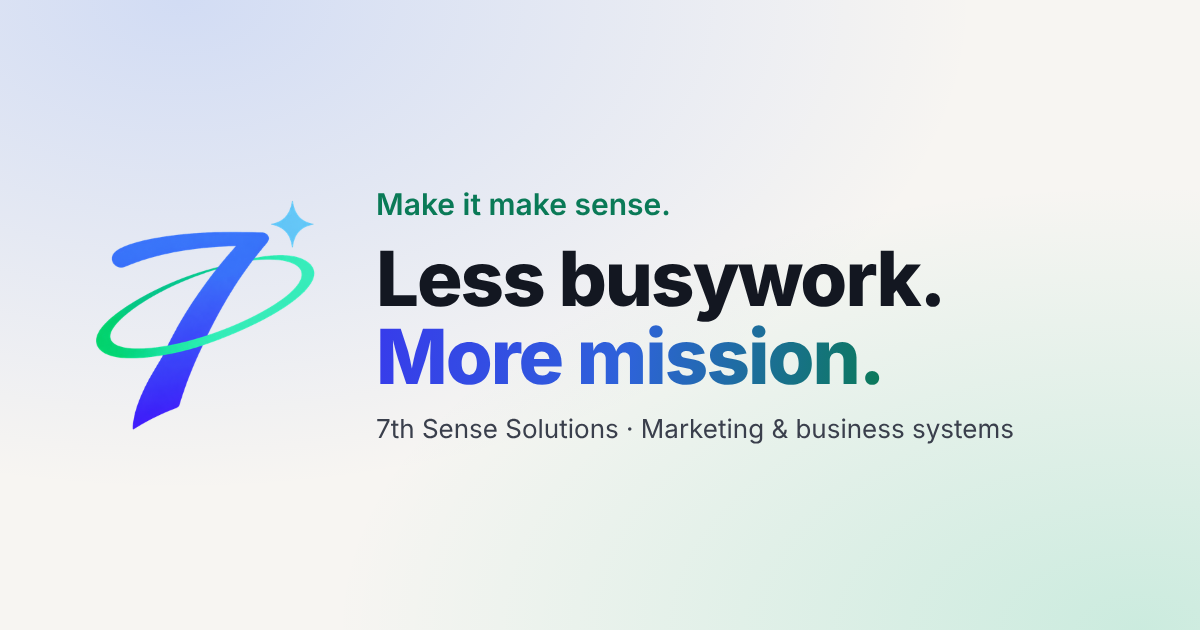
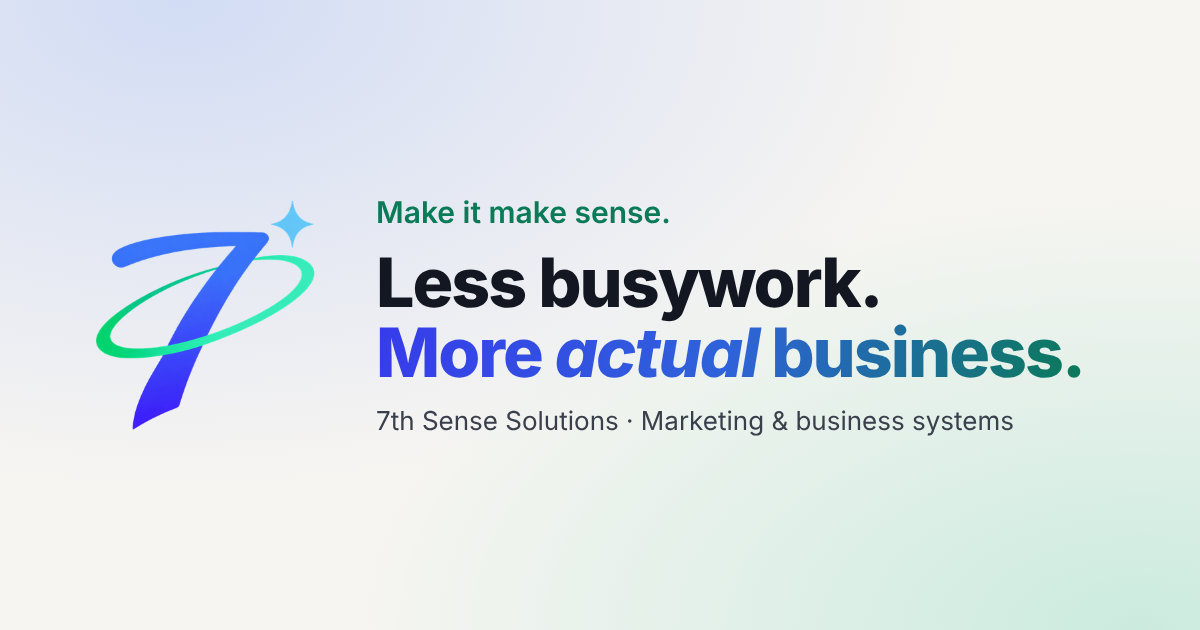
Hero headline: "Less busywork. More actual business."
Updates the hero, share title, and share image.

Claude-Session: https://claude.ai/code/session_0167hd1F6884AhMqRp1pcZDe

Changed region(s): [[0.3083, 0.3921, 0.925, 0.6937], [0.3083, 0.3016, 0.555, 0.3619]]

diff --git a/index.html b/index.html
@@ -13,7 +13,7 @@
 <link rel="canonical" href="https://7thsensesolutions.com/">
 <meta property="og:type" content="website">
 <meta property="og:site_name" content="7th Sense Solutions">
-<meta property="og:title" content="Less busywork. More mission. | 7th Sense Solutions">
+<meta property="og:title" content="Less busywork. More actual business. | 7th Sense Solutions">
 <meta property="og:description" content="Marketing and business systems for small businesses. I build the systems that capture every lead, follow up for you, and connect your tools, so you can get out of the weeds. Based in St. Louis.">
 <meta property="og:url" content="https://7thsensesolutions.com/">
 <meta property="og:image" content="https://7thsensesolutions.com/images/og-image.png">
@@ -150,7 +150,7 @@ html{scroll-behavior:smooth}
 <section style="color: #131721; background: radial-gradient(ellipse at 20% 0%, rgba(77,131,251,0.16), transparent 55%), radial-gradient(ellipse at 95% 90%, rgba(5,190,133,0.12 ), transparent 50%), #F7F5F2">
 <div style="max-width: 1200px; margin: 0 auto; padding: clamp(64px, 9vw, 120px) 24px clamp(56px, 7vw, 96px); display: flex; flex-direction: column; gap: 28px">
 <div style="font-family: 'Kaushan Script', cursive; font-size: 26px; color: #0A7A57">Make it make sense.</div>
-<h1 style="margin: 0; font-family: Sora, sans-serif; font-weight: 800; font-size: clamp(44px, 7.5vw, 92px); line-height: 1.0; letter-spacing: -0.035em; max-width: 900px">Less busywork.<br><span class="grad-l">More mission.</span></h1>
+<h1 style="margin: 0; font-family: Sora, sans-serif; font-weight: 800; font-size: clamp(44px, 7.5vw, 92px); line-height: 1.0; letter-spacing: -0.035em; max-width: 900px">Less busywork.<br><span class="grad-l">More <em style="font-style: italic; padding-right: 0.06em">actual</em> business.</span></h1>
 <p style="margin: 0; font-size: clamp(18px, 1.6vw, 21px); line-height: 1.6; color: #3A3F4C; max-width: 680px">Whether you sell services or products, I connect your marketing and business tools so they work together, then help you grow on top of them: campaigns, ads, and automation that bring customers in and keep them coming back. You keep the keys, so it all keeps running long after I'm gone.</p>
 <div style="display: flex; flex-wrap: wrap; gap: 14px; margin-top: 8px">
 <a href="https://calendar.google.com/calendar/appointments/schedules/AcZssZ2ihGTnjK_ADKunu6BIwyBelCXNJGZrNhhanmxzteIu9calpvYcj_o9ld1ZhANiABd0veh3dwn1" target="_blank" rel="noopener" class="btn-primary" style="text-decoration: none; padding: 16px 28px; border-radius: 999px; font-weight: 700; font-size: 16px; min-height: 52px; box-sizing: border-box; display: inline-flex; align-items: center">Book a systems call</a>
